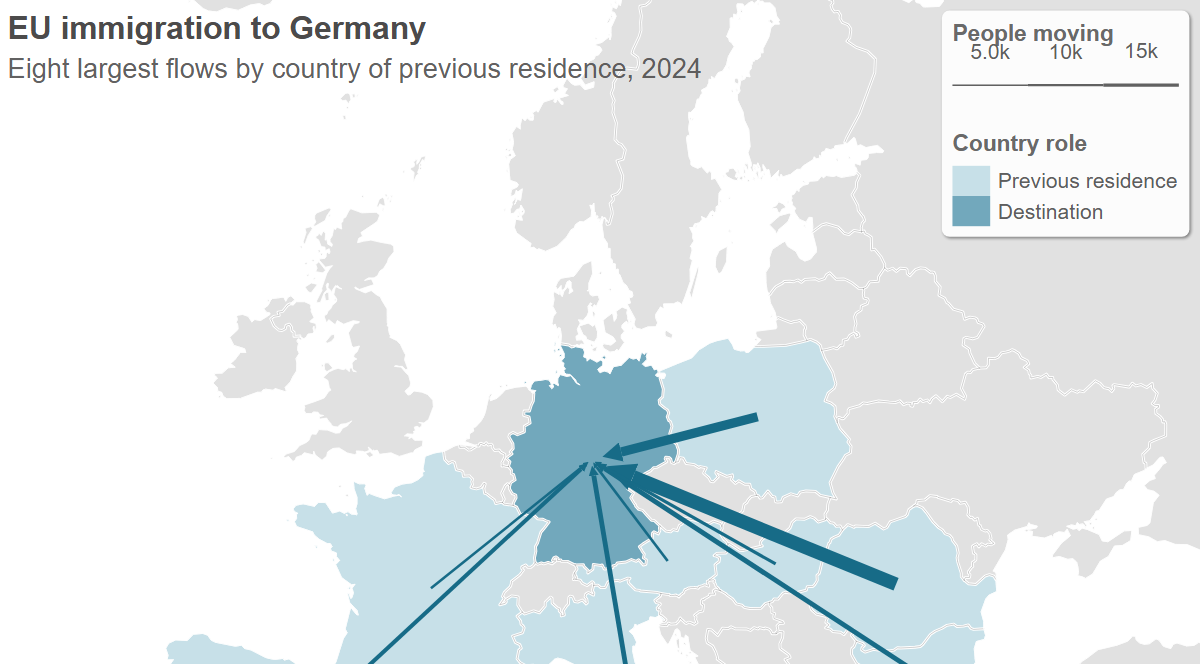
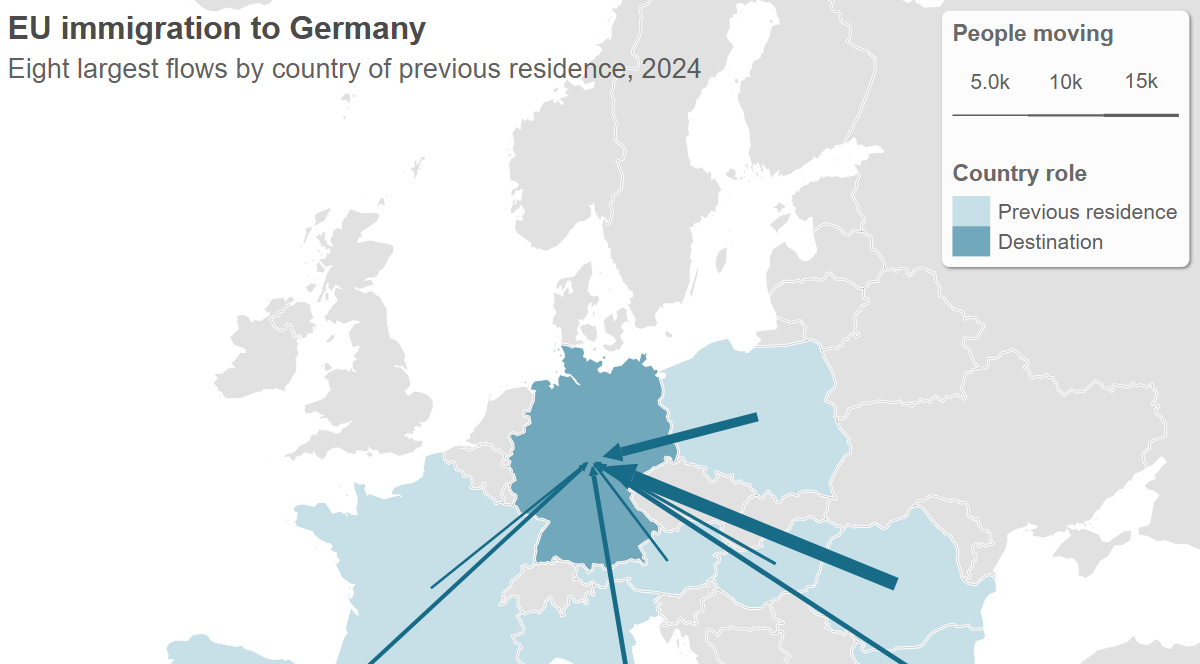
Separate the immigration flow legend title from its values

Changed region(s): [[0.7708, 0.2108, 1.0, 0.4217], [0.8017, 0.0602, 0.9867, 0.1807]]

diff --git a/examples/flow/immigration.html b/examples/flow/immigration.html
@@ -141,7 +141,7 @@
                 })
                 .legend({
                     position: 'top right',
-                    flowWidthLegend: { title: 'People moving', values: [5000, 10000, 15000] },
+                    flowWidthLegend: { title: 'People moving', titlePadding: 40, values: [5000, 10000, 15000] },
                     regionColorLegend: { title: 'Country role', labels: ['Previous residence', 'Destination'] },
                 })
 
